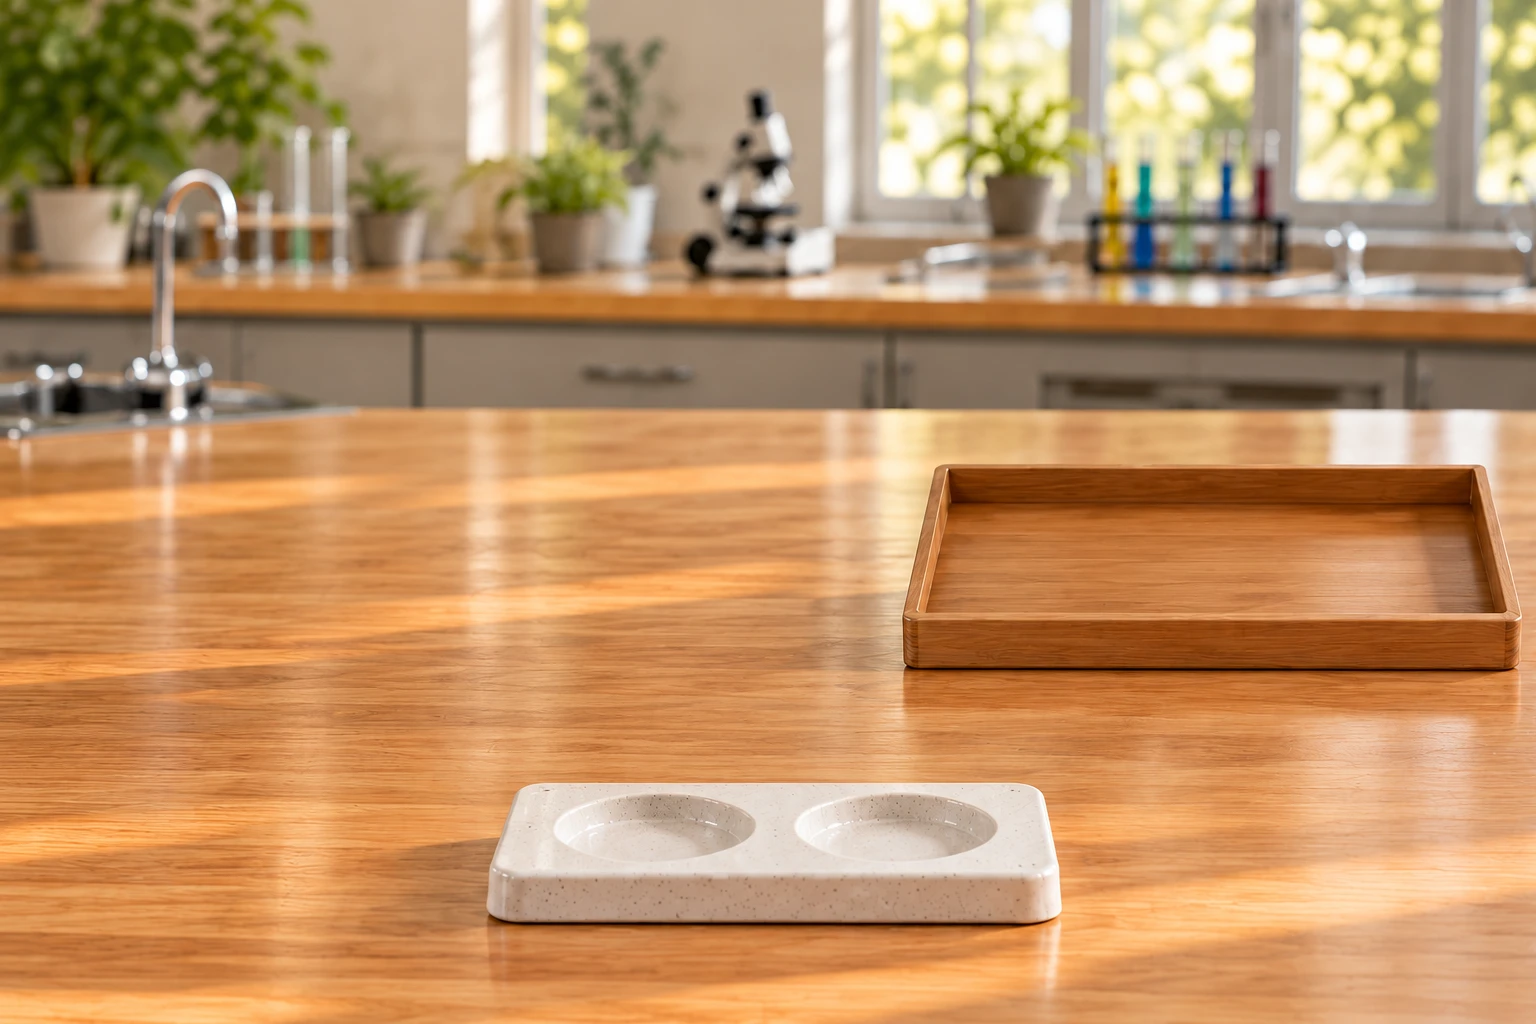
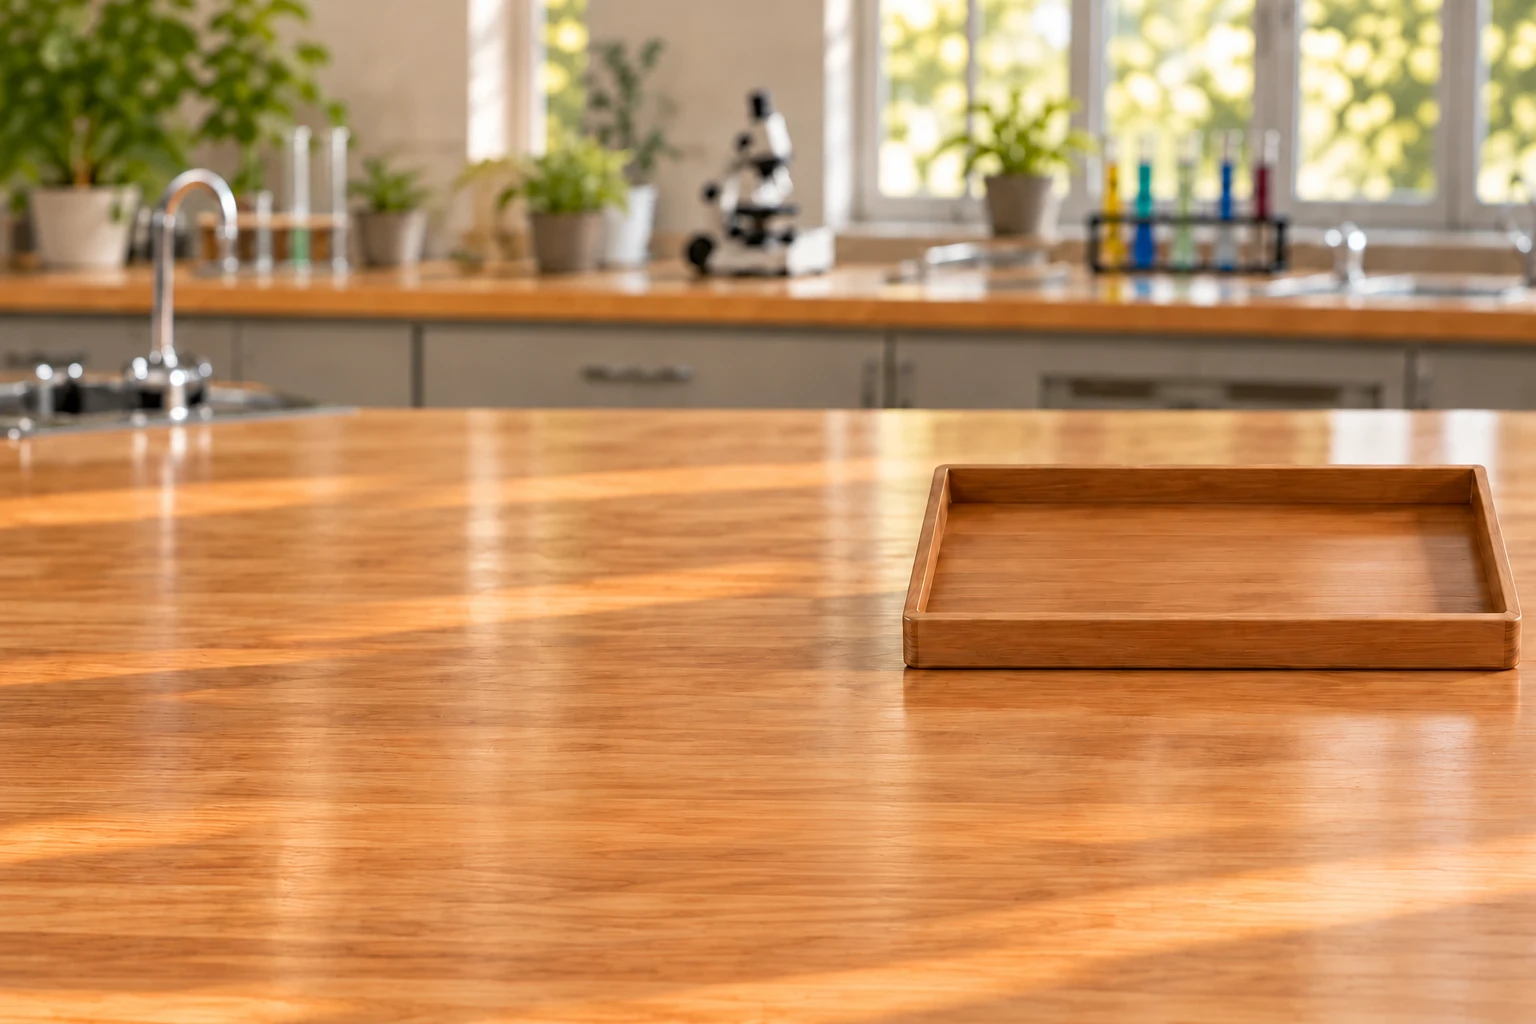
Remove unused foreground sample holder from the experiment table

Changed region(s): [[0.25, 0.75, 0.7188, 1.0]]

diff --git a/units/4/parts/4.2/assets/investigation.js b/units/4/parts/4.2/assets/investigation.js
@@ -156,7 +156,7 @@ window.addEventListener('pagehide',()=>{cancelAnimationFrame(frame);cancelDrag()
 async function initialize(){
   root.dataset.ready='loading';$('loading').hidden=false;$('loading').textContent='準備實驗桌……';$('retry').hidden=true;update();
   try{
-    const [table,atlas,glass]=await Promise.all([loadPicture(new URL('./investigation-table.webp',import.meta.url)),loadPicture(new URL('./investigation-apparatus.webp',import.meta.url)),loadPicture(new URL('./concentration-beaker.webp',import.meta.url))]);
+    const [table,atlas,glass]=await Promise.all([loadPicture(new URL('./investigation-table.webp?v=clear-4',import.meta.url)),loadPicture(new URL('./investigation-apparatus.webp',import.meta.url)),loadPicture(new URL('./concentration-beaker.webp',import.meta.url))]);
     renderer=createRenderer($('canvas'),{table,atlas,glass});root.dataset.ready='true';$('loading').hidden=true;update();redraw();
   }catch(error){root.dataset.ready='error';$('loading').textContent='器材圖片暫時無法載入，請重新載入器材。';$('retry').hidden=false;announce('實驗桌尚未就緒，其他學習區塊仍可使用。');update();}
 }

diff --git a/units/4/parts/4.2/index.html b/units/4/parts/4.2/index.html
@@ -416,6 +416,6 @@
   <script type="module" src="assets/chromatography.js?v=sixteen-1"></script>
   <script type="module" src="assets/concentration.js?v=ppm-separate-4"></script>
   <script type="module" src="assets/ppm-scale.js?v=approved-8"></script>
-  <script type="module" src="assets/investigation.js?v=pour-3"></script>
+  <script type="module" src="assets/investigation.js?v=clear-4"></script>
 </body>
 </html>

diff --git a/units/4/parts/4.2/assets/README.md b/units/4/parts/4.2/assets/README.md
@@ -2,9 +2,10 @@
 
 ## 未知樣本調查（單元小測）
 
-- `investigation-table.webp`：依使用者核可的簡化初始示意圖，以影像生成工具製作的空實驗桌；保留空器材盤及前方暫放托盤，樣本、液體、器材與按鈕獨立呈現。
+- `investigation-table.webp`：依使用者核可的簡化初始示意圖，以影像生成工具製作的空實驗桌；現行只保留右側器材盤，樣本、液體、器材與按鈕獨立呈現。使用者指出前方雙凹槽暫放托盤未使用後，已用相同影像工具移除並補回木桌面；既有樣本仍以下方容器列保留與切換。
 - `investigation-apparatus.webp`：同次影像工具製作的透明器材圖集，含空樣本瓶、空過濾裝置、帶空蒸發皿的電熱板、空電子秤。程式分別取用各物件，不把整張圖集當作活動畫面。
 - 原始生成圖分別為 `exec-31490b2e-c7e1-45fd-b90a-fc8ebf2d9487.png` 與 `exec-feb03b0d-40eb-4795-9a39-bd4aa49ae4a4.png`；只使用 ffmpeg 編碼為 WebP，器材圖集無損保留透明度。空燒杯沿用本目錄 `concentration-beaker.webp`；正式人物沿用共享頭像，未另畫人物。
+- 移除未使用暫放托盤的背景修訂圖為 `exec-f23bdc5d-d470-438f-8fd7-568b02bccb25.png`，保持 1536×1024 視角與右側器材盤位置；同樣只以 ffmpeg 編碼。現行背景載入版本為 `clear-4`。
 - `investigation-renderer.js` 使用 Canvas 2D 獨立繪製液體、泥沙、流動、沸騰、逐漸乾燥的殘留物與電子秤顯示；生成器材不決定樣本組成或秤量數據。反光圖層不遮住液體。主畫面無微觀粒子模型、蒸氣煙霧或化學鑑定效果。
 - `investigation-state.js` 定義每份搖勻取樣的 2 g 泥沙、5 g 食鹽與 95 g 水；過濾／蒸發後物質去向、觀察快照、同份樣本稱量與濃度證據。這是教學示意的配方與理想回收量，不宣稱真實實驗無耗損或照片已完成量測。
 - `investigation.js` 管理點擊、滑鼠／觸控拖曳、鍵盤、取樣保留切換、筆記、成分證據及選填濃度。先直接蒸發、靜置或過濾都允許，結果依實際組成改變；沒有規定的作答步驟。

diff --git a/docs/reviews/unit-4.2-investigation/review.md b/docs/reviews/unit-4.2-investigation/review.md
@@ -98,3 +98,12 @@ node --test tests/unit-4.2-investigation.test.cjs
 2. 實際攔截 Canvas 的瓶身照片變換與水流筆畫；比對照片上的瓶口與水流起點，包含正常與減少動態模式，不只核對純函式回傳的座標。
 
 原有取樣、任意測試、稱量、筆記／報告、滑鼠／觸控／鍵盤、取消、重設、補充、背景暫停、七種寬度及失敗重試一併通過。本輪未重跑前四組教學互動測試，其互動檔案未變動；不將前輪 75 項描述成本輪新執行。
+
+## 後續修訂：移除未使用的前方托盤（2026-10-28）
+
+使用者指出前方雙凹槽陶瓷托盤未使用。該物件只有背景外觀，初稿的暫放用途並未接上操作；實際多份取樣已以下方容器列保留及切換。因此移除背景中的該物件，保留右側實際使用的木製器材盤。
+
+- 使用影像工具編輯原背景，將陶瓷托盤與其陰影補成木桌；維持 1536×1024 畫面及器材盤位置。沒有遮蓋互動區或移動器材控制。
+- 背景請求與入口腳本使用 `clear-4`，避免瀏覽器顯示舊托盤。
+- `node --test tests/unit-4.2-investigation.test.cjs`：本輪 **22 項通過、0 失敗**；取樣、實際水流、容器切換、其他器材與七種寬度一併確認。
+- 已檢視新的桌面與手機初始畫面，存為 `clear-table-desktop.webp`、`clear-table-mobile.webp`。前文帶托盤的圖保留作歷史紀錄；未重跑前四組教學互動。

diff --git a/docs/decisions/unit-4.2-unknown-sample-investigation.md b/docs/decisions/unit-4.2-unknown-sample-investigation.md
@@ -63,6 +63,10 @@
 
 ## 素材與檢查
 
+### 移除未接上操作的前方托盤（2026-10-28）
+
+使用者指出前方雙凹槽陶瓷托盤沒有用途。初稿曾規劃用於暫放取樣杯，但正式操作已採下方容器列保留與切換，沒有任何操作連接該托盤。因此以影像工具將背景中的前方托盤移除、補回木桌面；保留實際放置可用器材的右方木盤。樣本狀態與所有操作不變，現行背景與入口腳本快取版本為 `clear-4`。
+
 ### 取樣倒水來源修訂（2026-10-28）
 
 - 使用者指出取樣水流像從空中出現。原因是舊水流起點寫成固定座標，未跟隨瓶口；減少動態模式更只停住瓶身，仍繪製同一條水流。
